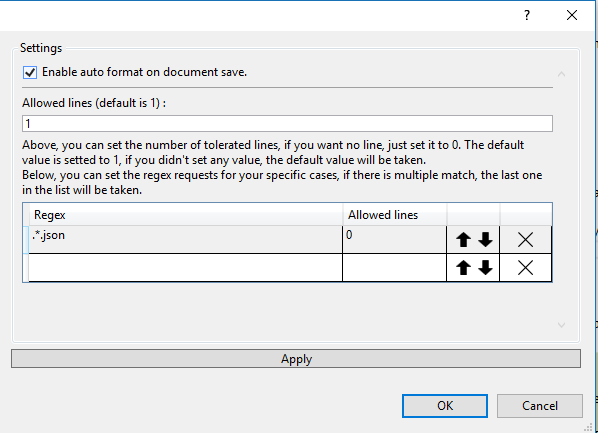
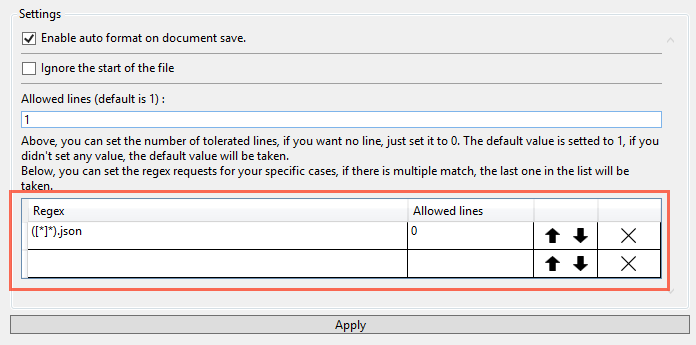
Add setting for ignore first lines

diff --git a/EmptyLineExtention/Core/Controls/SettingsControl.xaml b/EmptyLineExtention/Core/Controls/SettingsControl.xaml
@@ -25,6 +25,11 @@
                         Content="{Binding AutoSaveContent}"
                         IsChecked="{Binding AutoSaveEnabled}" />
                     <Separator />
+                    <CheckBox
+                        Margin="0,5,0,5"
+                        Content="{Binding IgnoreFirstLinesContent}"
+                        IsChecked="{Binding IgnoreFirstLinesEnabled}" />
+                    <Separator />
                     <TextBlock Margin="0,5,0,5" Text="{Binding AllowedLinesContent}" />
                     <TextBox
                         Name="tbx_NumericValue"

diff --git a/EmptyLineExtention/Core/Controls/SettingsControl.xaml.cs b/EmptyLineExtention/Core/Controls/SettingsControl.xaml.cs
@@ -32,6 +32,11 @@ namespace EmptyLineExtention.Core.Controls
         internal OptionPage optionsPage;
 
         /// <summary>
+        /// Ignore first lines enabled
+        /// </summary>
+        private bool ignoreFirstLinesEnabled;
+
+        /// <summary>
         /// List settings item
         /// </summary>
         private readonly ObservableCollection<SettingItem> settingsItems = new ObservableCollection<SettingItem>();
@@ -61,9 +66,14 @@ namespace EmptyLineExtention.Core.Controls
         public string AllowedLinesDesc { get { return Labels.SettingsControl_AllowedLinesDesc; } }
 
         /// <summary>
-        /// ApplyLabel
+        /// Apply translation
         /// </summary>
         public string ApplyLabel { get { return Labels.SettingsControl_ApplyLabel; } }
+
+        /// <summary>
+        /// Ignore first lines translation
+        /// </summary>
+        public string IgnoreFirstLinesContent { get { return Labels.SettingsControl_IgnoreFirstLinesContent; } }
 
         #endregion
 
@@ -86,7 +96,7 @@ namespace EmptyLineExtention.Core.Controls
         }
 
         /// <summary>
-        ///  Option page instance
+        /// Allowed lines
         /// </summary>
         public string AllowedLines
         {
@@ -103,6 +113,19 @@ namespace EmptyLineExtention.Core.Controls
                     allowedLines = null;
                 }
                 optionsPage.AllowedLines = allowedLines;
+            }
+        }
+
+        /// <summary>
+        /// Ignore first lines enabled
+        /// </summary>
+        public bool IgnoreFirstLinesEnabled
+        {
+            get { return ignoreFirstLinesEnabled; }
+            set
+            {
+                ignoreFirstLinesEnabled = value;
+                optionsPage.IgnoreStartingLines = ignoreFirstLinesEnabled;
             }
         }
 
@@ -127,6 +150,7 @@ namespace EmptyLineExtention.Core.Controls
             this.optionsPage = optionsPage;
             autoSaveEnabled = optionsPage.IsAutoSaveEnabled;
             allowedLines = optionsPage.AllowedLines;
+            ignoreFirstLinesEnabled = optionsPage.IgnoreStartingLines;
             SettingsGrid.ItemsSource = settingsItems;
             SettingsGrid.AutoGenerateColumns = false;
             SettingsGrid.CanUserAddRows = true;

diff --git a/EmptyLineExtention/Services/EmptyLineService.cs b/EmptyLineExtention/Services/EmptyLineService.cs
@@ -16,7 +16,7 @@ namespace EmptyLineExtention.Services
         /// <param name="document"></param>
         /// <param name="CanUseSelection"></param>
         /// <param name="AllowedLines"></param>
-        public static void FormatDocument(Document document, bool CanUseSelection, int AllowedLines, _DTE dte)
+        public static void FormatDocument(Document document, bool CanUseSelection, int AllowedLines, _DTE dte, bool ignoreStartLines)
         {
             Microsoft.VisualStudio.Shell.ThreadHelper.ThrowIfNotOnUIThread();
 
@@ -29,12 +29,16 @@ namespace EmptyLineExtention.Services
             // initialise edit point
             var editPoint = activeDoc.CreateEditPoint(activeDoc.StartPoint);
 
+            // Set is start line variable
+            bool isStartLines = true;
+
             // check if there is a selection
             if (!activeDoc.Selection.IsEmpty && CanUseSelection)
             {
                 startPoint = activeDoc.Selection.TopLine;
                 endPoint = activeDoc.Selection.BottomLine;
                 editPoint.LineDown(startPoint - 1);
+                isStartLines = false;
             }
 
             // remove all multiple space between start and end point
@@ -48,7 +52,9 @@ namespace EmptyLineExtention.Services
                 {
                     numberOfEmptyLines++;
 
-                    if (numberOfEmptyLines > AllowedLines)
+                    // Verify if the managed lines are the first one and if trim is needed
+                    bool manageFirstLines = ((ignoreStartLines && !isStartLines) || !ignoreStartLines);
+                    if (numberOfEmptyLines > AllowedLines && manageFirstLines)
                     {
                         editPoint.StartOfLine();
                         // Delete "spaces"
@@ -67,6 +73,7 @@ namespace EmptyLineExtention.Services
                 else
                 {
                     numberOfEmptyLines = 0;
+                    isStartLines = false;
                 }
 
                 if (lineDeleted)

diff --git a/EmptyLineExtention/Commands/EmptyLineCommand.cs b/EmptyLineExtention/Commands/EmptyLineCommand.cs
@@ -101,7 +101,7 @@ namespace EmptyLineExtention.Commands
             int? allowedLines = GetAllowedLinesValue(applicationObject.ActiveDocument);
             if (allowedLines.HasValue)
             {
-                EmptyLineService.FormatDocument(applicationObject.ActiveDocument, true, allowedLines.Value, applicationObject);
+                EmptyLineService.FormatDocument(applicationObject.ActiveDocument, true, allowedLines.Value, applicationObject, GetIgnoreStartingLines());
             }
         }
 
@@ -120,6 +120,23 @@ namespace EmptyLineExtention.Commands
             catch (Exception)
             {
                 return null;
+            }
+        }
+
+        /// <summary>
+        /// Get the value of IgnoreStartingLines property
+        /// </summary>
+        /// <returns></returns>
+        private bool GetIgnoreStartingLines()
+        {
+            try
+            {
+                OptionPage optionProperties = (OptionPage)package.GetDialogPage(typeof(OptionPage));
+                return optionProperties.IgnoreStartingLines;
+            }
+            catch (Exception)
+            {
+                return false;
             }
         }
     }

diff --git a/EmptyLineExtention/Formatter/AutoFormatter.cs b/EmptyLineExtention/Formatter/AutoFormatter.cs
@@ -69,7 +69,7 @@ namespace EmptyLineExtention.Formatter
                 int? allowedLines = GetAllowedLinesValue(document);
                 if (allowedLines.HasValue)
                 {
-                    EmptyLineService.FormatDocument(document, false, allowedLines.Value, dte);
+                    EmptyLineService.FormatDocument(document, false, allowedLines.Value, dte, GetIgnoreStartLinesSetting());
                 }
             }
 
@@ -177,6 +177,23 @@ namespace EmptyLineExtention.Formatter
             catch (Exception)
             {
                 return null;
+            }
+        }
+
+        /// <summary>
+        /// Return <see cref="OptionPage.IgnoreStartingLines"/> setting
+        /// </summary>
+        /// <returns></returns>
+        private bool GetIgnoreStartLinesSetting()
+        {
+            try
+            {
+                OptionPage optionProperties = (OptionPage)package.GetDialogPage(typeof(OptionPage));
+                return optionProperties.IgnoreStartingLines;
+            }
+            catch (Exception)
+            {
+                return false;
             }
         }
 

diff --git a/EmptyLineExtention/Core/Settings/OptionPage.cs b/EmptyLineExtention/Core/Settings/OptionPage.cs
@@ -24,6 +24,11 @@ namespace EmptyLineExtention.Core.Settings
         /// </summary>
         private string filesConfigurations;
 
+        /// <summary>
+        /// Manage starting lines
+        /// </summary>
+        private bool ignoreStartingLines;
+
         #endregion
 
         #region Properties
@@ -58,6 +63,15 @@ namespace EmptyLineExtention.Core.Settings
         public int DefaultAllowedLines
         {
             get { return allowedLines.HasValue ? allowedLines.Value : Core.Constants.DefaultAllowedLines; }
+        }
+
+        [Category(Constants.AppName)]
+        [DisplayName(Constants.IgnoreFirstLine)]
+        [Description(Constants.IgnoreFirstLineDesc)]
+        public bool IgnoreStartingLines
+        {
+            get { return ignoreStartingLines; }
+            set { ignoreStartingLines = value; }
         }
 
         protected override UIElement Child

diff --git a/EmptyLineExtention/Core/Localization/Labels.Designer.cs b/EmptyLineExtention/Core/Localization/Labels.Designer.cs
@@ -107,6 +107,15 @@ namespace EmptyLineExtention.Core.Localization {
         }
         
         /// <summary>
+        ///   Looks up a localized string similar to Ignore the start of the file.
+        /// </summary>
+        internal static string SettingsControl_IgnoreFirstLinesContent {
+            get {
+                return ResourceManager.GetString("SettingsControl_IgnoreFirstLinesContent", resourceCulture);
+            }
+        }
+        
+        /// <summary>
         ///   Looks up a localized string similar to Regex.
         /// </summary>
         internal static string SettingsControl_RegexLabel {

diff --git a/EmptyLineExtention/Core/Constants.cs b/EmptyLineExtention/Core/Constants.cs
@@ -46,6 +46,16 @@
         /// </summary>
         public const int DefaultAllowedLines = 1;
 
+        /// <summary>
+        /// name of the managing first line property
+        /// </summary>
+        public const string IgnoreFirstLine = "Manage first line";
+
+        /// <summary>
+        /// description  of the managing first line property
+        /// </summary>
+        public const string IgnoreFirstLineDesc = "Allow to manage the first lines of the file";
+
         #endregion
 
     }

diff --git a/EmptyLineExtention/Formatter/AutoFormatPackage.cs b/EmptyLineExtention/Formatter/AutoFormatPackage.cs
@@ -83,7 +83,6 @@ namespace EmptyLineExtention.Formatter
 
             base.Initialize();
         }
-       
 
         #endregion
     }

diff --git a/README.md b/README.md
@@ -50,6 +50,13 @@ you can fint it in *Tools => Options => EmptyLine Extension*
 
 With the version 1.1.0, you can edit the number of allowed lines, for that go on "*Tools => Options => EmptyLine Extension*", and edit the option "Allowed lines", by default there is no values, in this case, 1 line is kept, if you didn't want any line, then set value to 0. All numbers are allowed for this option.
 
+## Ignore first line
+
+Since version 1.3.0, you can choose to ignore the first lines of the file: if the first line is empty, all the following empty lines will not be removed. But at the first line who contains text, the seetings will be applied.
+![Image](/images/readMe_Settings_02.png) 
+
+you can add multiples rules, and manage them as you want. 
+
 ## Regex
 
 Since version 1.3.0, you can now add some specific rules in regex. The regex will be apply to the file full path (path and file name).
